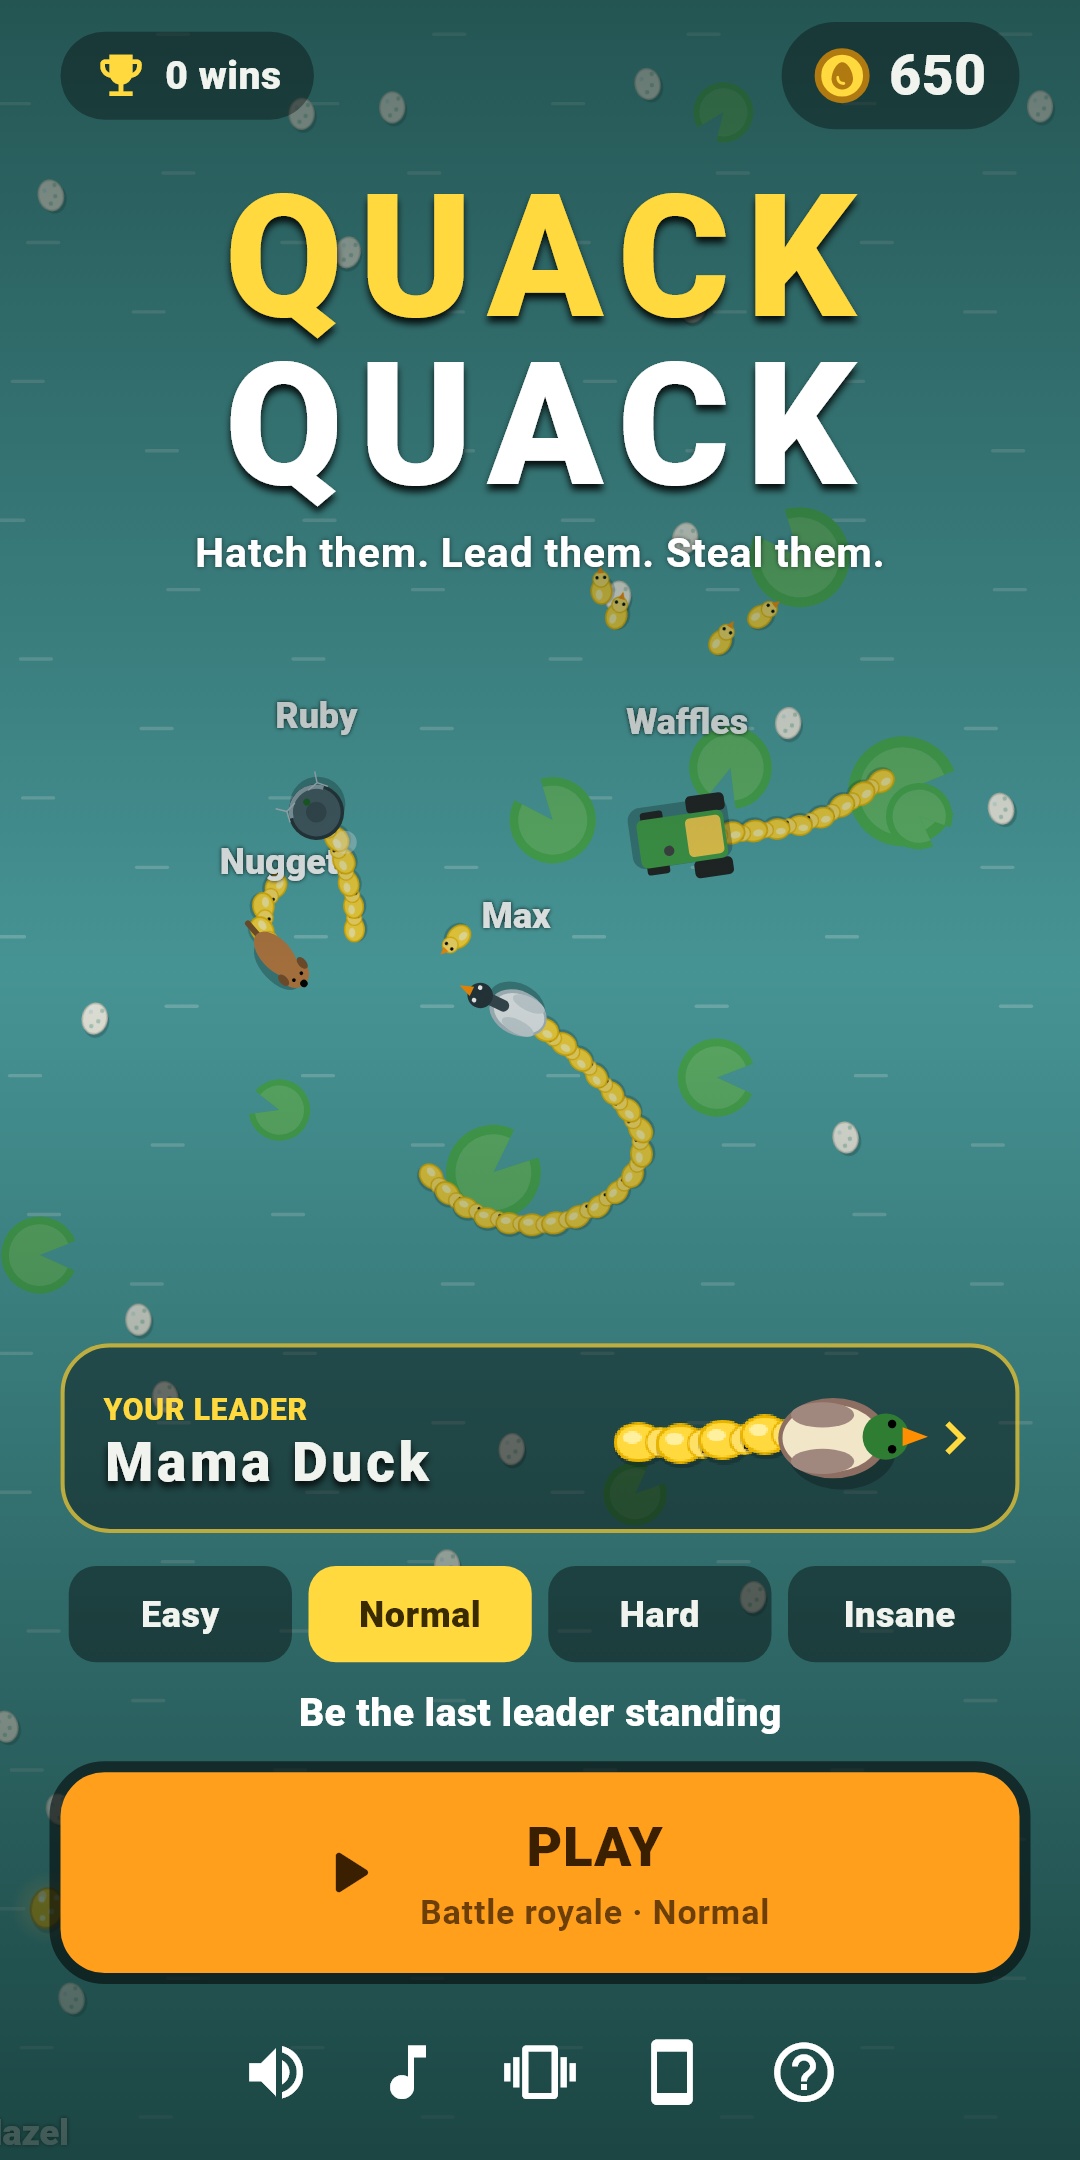
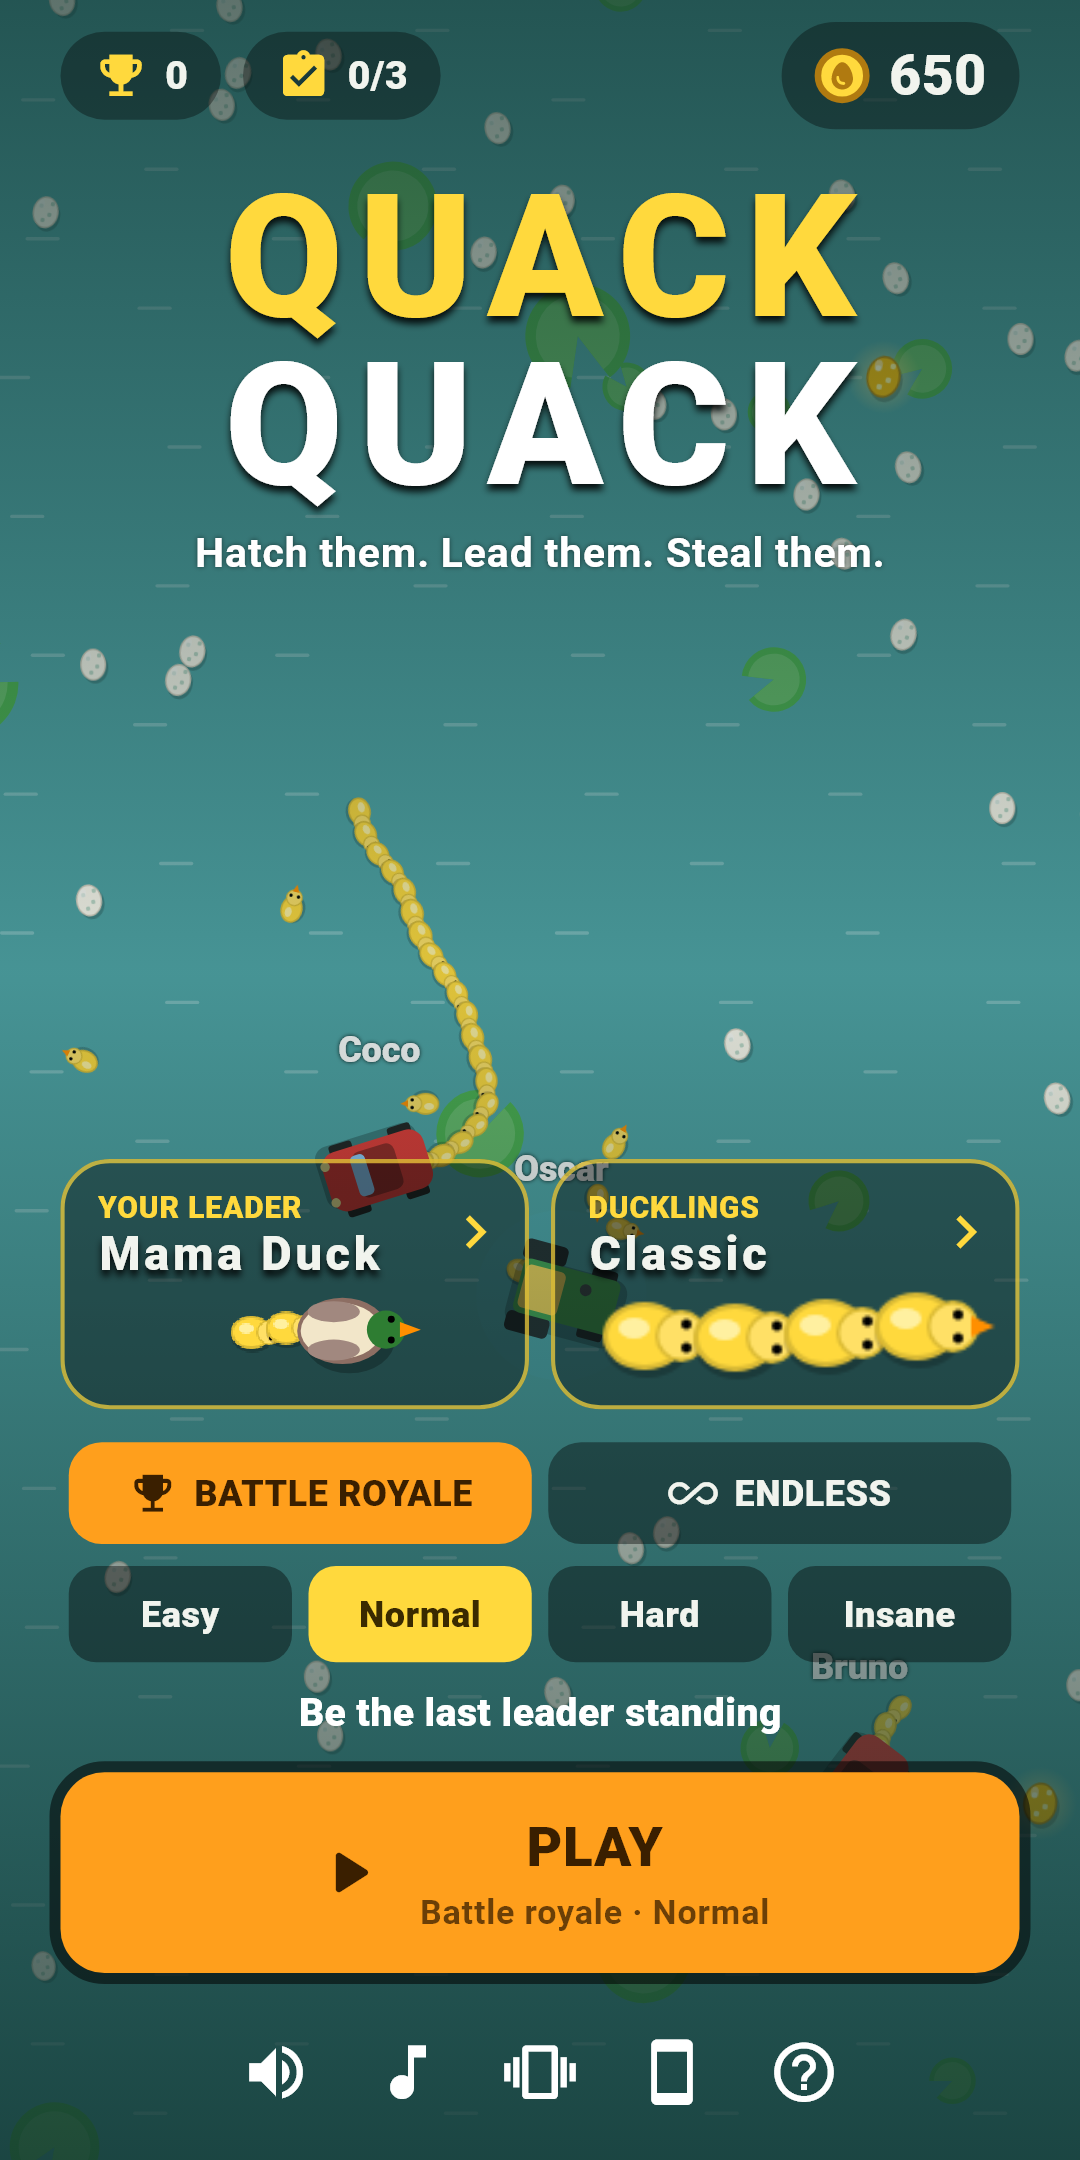
Quack Quack 1.1: endless, foxes, skins, daily missions

diff --git a/quackquack/index.html b/quackquack/index.html
@@ -73,6 +73,14 @@
       <p>While you have ducklings you can't be knocked out. Lose them all and any leader can catch you!</p></div>
     <div class="card"><div class="emoji">🏆</div><h3>Battle royale</h3>
       <p>The pond dries up step by step. On the mud your ducklings wander off. Last leader standing wins.</p></div>
+    <div class="card"><div class="emoji">♾</div><h3>Endless mode</h3>
+      <p>The pond never dries and new rivals keep waddling in. How long can your line grow?</p></div>
+    <div class="card"><div class="emoji">🦊</div><h3>Watch out for foxes</h3>
+      <p>Foxes snap up lost ducklings and the end of your line. Run into one head-on to chase it away!</p></div>
+    <div class="card"><div class="emoji">🎨</div><h3>Duckling skins</h3>
+      <p>Bubblegum, Cool Duck, Ninja, Panda, Pirate, Golden and Rainbow ducklings. Every duckling that joins you wears your colours.</p></div>
+    <div class="card"><div class="emoji">📅</div><h3>Daily missions</h3>
+      <p>Three new missions every day, with coin rewards.</p></div>
     <div class="card"><div class="emoji">🚲</div><h3>9 leaders</h3>
       <p>Mama Duck, Little Kid, Puppy, Bicycle, Grumpy Goose, Scooter, Red Car, Tractor and Robot Vacuum, each with its own speed, turning and bite.</p></div>
     <div class="card"><div class="emoji">📱</div><h3>Portrait or landscape</h3>
@@ -88,6 +96,10 @@
     <img src="img/screen-03.png" alt="No ducklings left: alarm" loading="lazy">
     <img src="img/screen-04.png" alt="Choosing a leader" loading="lazy">
     <img src="img/screen-05.png" alt="How to play" loading="lazy">
+    <img src="img/screen-06.png" alt="A fox stalking a line of ninja ducklings" loading="lazy">
+    <img src="img/screen-07.png" alt="Endless mode with rainbow ducklings" loading="lazy">
+    <img src="img/screen-08.png" alt="Duckling skins" loading="lazy">
+    <img src="img/screen-09.png" alt="Daily missions" loading="lazy">
   </div>
 </main>
 <footer>
